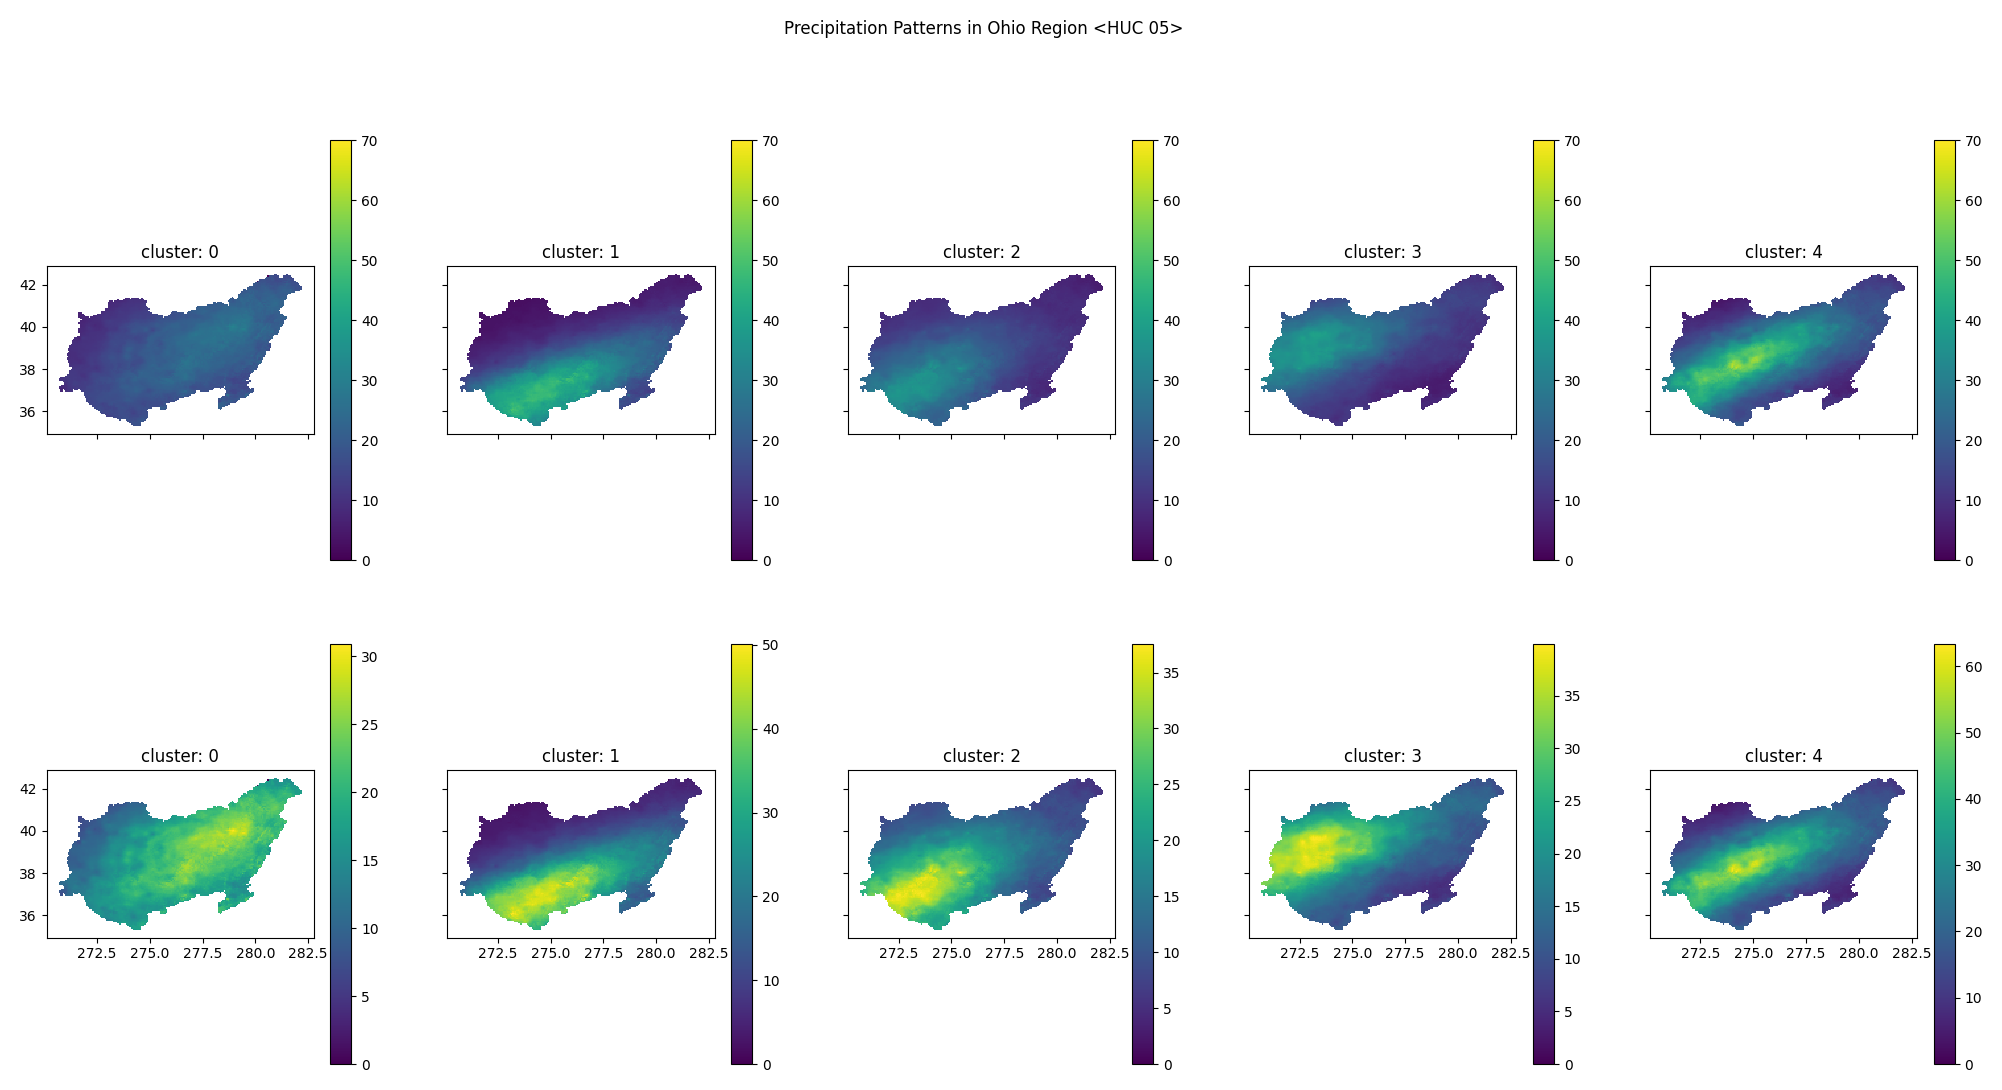
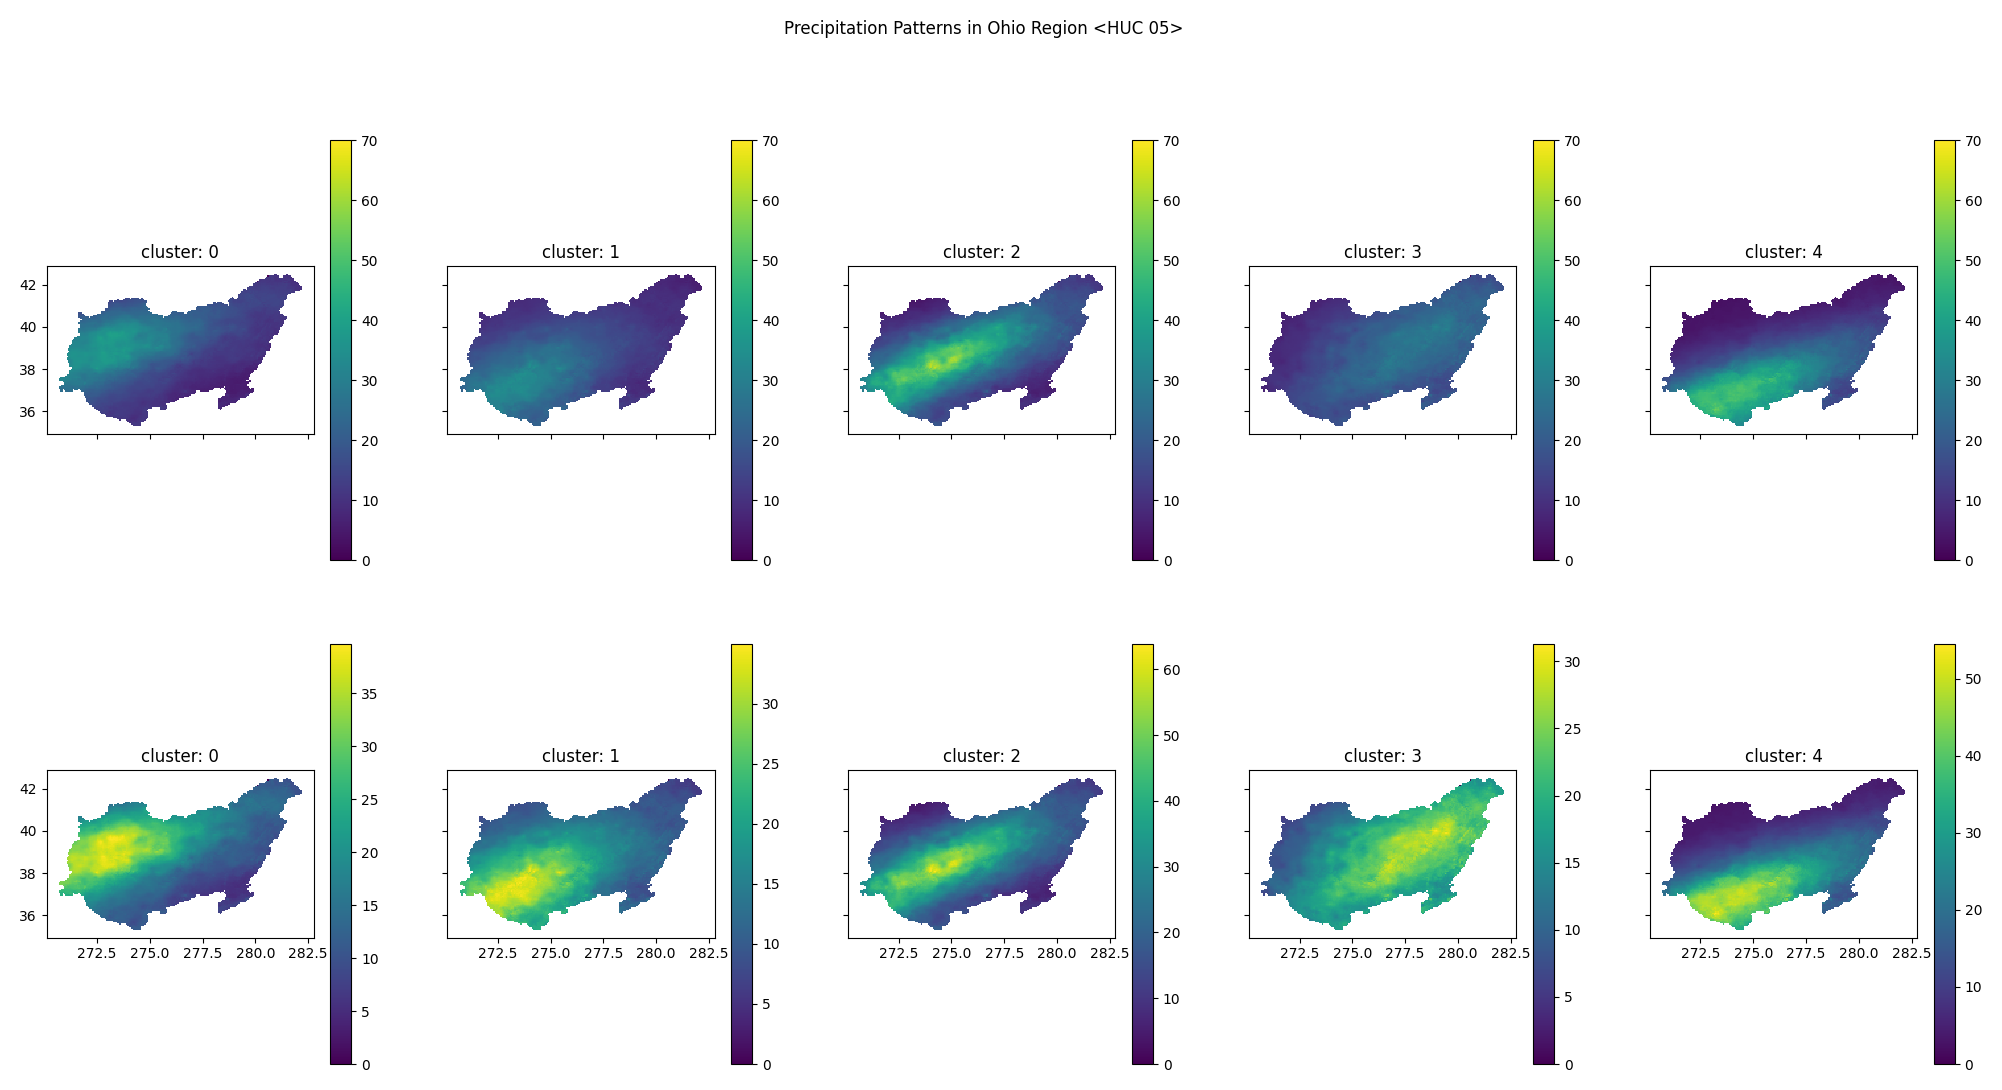
Use same projection system's area for weights calculation
Previous method had weights significantly different from 1.0
Also changed some of the reporting functions, and little more details
in the readme

diff --git a/src/huc.py b/src/huc.py
@@ -208,8 +208,8 @@ class HUC:
         year_julian = [(d.year, dates[0].timetuple().tm_yday) for d in dates]
         bbox = self.buffered_bbox()
 
-        def get_df(yr_jul):
-            netCDF = xarray.open_dataset(LivnehData.input_file(yr_jul[0]))
+        def get_df(yr, jul):
+            netCDF = xarray.open_dataset(LivnehData.input_file(yr))
             lats = list(
                 filter(
                     lambda il: il[1] > bbox[1] and il[1] < bbox[3],
@@ -225,12 +225,12 @@ class HUC:
             lats_ind = [i for i, l in lats]
             lons_ind = [i for i, l in lons]
             grid_day = netCDF.prec.isel(
-                lon=lons_ind, lat=lats_ind, time=yr_jul[1] - 1
+                lon=lons_ind, lat=lats_ind, time=jul - 1
             ).fillna(0)
             grid_day["ids"] = self.weights.ids
             return grid_day.to_dataframe()
 
-        return pd.concat(get_df(yj) for yj in year_julian)
+        return pd.concat(get_df(y, j) for y, j in year_julian)
 
     def process_annual_timeseries(self, year: int) -> pd.DataFrame:
         """process the annual timeseries for a year and save it
@@ -251,6 +251,7 @@ class HUC:
         weighted.name = "prec"
         df = weighted.to_dataframe()
         df.to_csv(self.data_path(f"prec.{year}.csv"))
+        print(":", self.data_path(f"prec.{year}.csv"))
         return df
 
     def load_weights(self, /, calculate: bool = False):
@@ -306,12 +307,12 @@ class HUC:
         # can be further sped up if we simplify the mask layer
         clipped = gpd.clip(geom_unclip, mask,
                            keep_geom_type=False).to_crs(HUC.AREA_CRS)
-        area = clipped.geometry.map(lambda g: g.area / 1_000_000)  # sqkm
+        area: pd.Series = clipped.geometry.map(lambda g: g.area / 1_000_000)
         self._set_and_save_weights(
             area, template=netCDF.prec.isel(time=0).drop_vars("time")
         )
 
-    def _set_and_save_weights(self, area, /, template):
+    def _set_and_save_weights(self, area: pd.Series, /, template):
         areas = xarray.zeros_like(template)
         ids = xarray.zeros_like(template, dtype=int)
         i = 1
@@ -319,12 +320,17 @@ class HUC:
             areas[(lat_ind, lon_ind)] = a
             ids[(lat_ind, lon_ind)] = i
             i += 1
+        print(f"Number of Grid Cells in Basin: {i-1}")
         weights = xarray.Dataset()
         weights["ids"] = ids
-        weights["areas"] = areas
-        weights["weights"] = areas / self.areasqkm
+        total_area = self.geometry_as_geodataframe().to_crs(
+                HUC.AREA_CRS).loc[0, "geometry"].area / 1_000_000
+        weights["weights"] = areas / total_area
+        print(f"Sum of weights: {float(weights.weights.sum()): .3f}")
         self.weights = weights.where(weights.ids > 0, drop=True)
         self.weights.to_netcdf(self.data_path(HUC.IDS_AND_WEIGHTS_FILENAME))
         self.weights.ids.to_dataframe().dropna().to_csv(
             self.data_path("ids.csv")
         )
+        print(":", self.data_path(HUC.IDS_AND_WEIGHTS_FILENAME))
+        print(":", self.data_path("ids.csv"))

diff --git a/src/precip.py b/src/precip.py
@@ -16,6 +16,7 @@ def calculate_ams_series(huc: HUC, years: List[int], ndays: int) -> pd.DataFrame
     )
     ams_series.loc[:, "duration"] = ndays
     ams_series.to_csv(huc.data_path(f"ams_{ndays}dy_series.csv"), index=None)
+    print(":", huc.data_path(f"ams_{ndays}dy_series.csv"))
     return ams_series
 
 
@@ -38,6 +39,7 @@ def calculate_pds_series(
     )
     pds_series.loc[:, "duration"] = ndays
     pds_series.to_csv(huc.data_path(f"pds_{ndays}dy_series.csv"))
+    print(":", huc.data_path(f"pds_{ndays}dy_series.csv"))
     return pds_series
 
 
@@ -72,6 +74,7 @@ def load_pds_grids(
         pds = load_pds_series(huc, years, ndays, threshold)
         grids = calculate_series_grids(huc, pds)
         grids.to_csv(huc.data_path(f"pds_{ndays}dy_grids.csv"))
+        print(":", huc.data_path(f"pds_{ndays}dy_grids.csv"))
         return grids
 
 
@@ -84,4 +87,5 @@ def load_ams_grids(huc: HUC, years: List[int], ndays: int) -> pd.DataFrame:
         ams = load_ams_series(huc, years, ndays)
         grids = calculate_series_grids(huc, ams)
         grids.to_csv(huc.data_path(f"ams_{ndays}dy_grids.csv"))
+        print(":", huc.data_path(f"ams_{ndays}dy_grids.csv"))
         return grids

diff --git a/src/locus.py b/src/locus.py
@@ -117,7 +117,7 @@ def plot_clusters(huc: HUC, args):
         axs[1, i].set_title(f"cluster: {i}")
     plt.suptitle(f"Precipitation Patterns in {huc}")
     plt.savefig(huc.image_path(f"{series}_{ndays}dy.png"))
-    print(huc.image_path(f"{series}_{ndays}dy.png"))
+    print(":", huc.image_path(f"{series}_{ndays}dy.png"))
 
 
 def cli_parser():
@@ -208,3 +208,4 @@ if __name__ == "__main__":
         locals()[func_name](huc, args)
         dur = time.time() - t1
         print(f"    Time taken: {dur: .3f} seconds ({dur / 60: .2} minutes)")
+        print(flush=True)

diff --git a/README.md b/README.md
@@ -108,7 +108,10 @@ Files: `{ams,pds}_Ndy.png` where N is the `num_days` (duration of event consider
 Plot of the clusters made from the events data for the AMS list or PDS list. The images show clusters with individual scale on bottom, and global scale on top for comparision.
 
 ## Run Times
-This is the runtime on Trinity (HUCode: 1203) on my laptop (CPU: AMD Ryzen 7 6800U with Radeon Graphics (16) @ 2.700GHz).
+This is the runtime on Trinity (HUCode: 1203) on my laptop
+- CPU: AMD Ryzen 7 6800U with Radeon Graphics (16) @ 2.700GHz,
+- Storage: PCIe Gen 4 NVMe SSD Up to Seq Read: 4000MB/s, Write: 2000MB/s,
+- RAM:  32 GB Dual Channel LPDDR5 up to 5500 MHz
 
 On the first run, where it has to calculate everything:
 
@@ -167,7 +170,6 @@ For Ohio Region <HUC 05>
 
 Seems like the extraction part is similar for all the basins, but the other ones vary by size. But it's reasonable time if you want to process a lot of basins.
 
-
 # Tips and tricks
 ## Running in parallel
 The original plan was to run everything without multiprocessing in the module itself, so multiple basins could be processed in parallel, but there seems to be some problem with the reading of netCDF from xarray or something that is giving some troubles. will have to look at it.
@@ -186,4 +188,20 @@ The output of the command can be piped, only the reporting texts from the main f
 If you need to print any debugging information that's not supposed to goto the report, print it in the `stderr`.
 
 # Note
+
+## Livneh Data Range
+The Livneh Data Range is approximately from lat 25 to 53, and lon -125 to -67, which means it doesn't cover the following regions:
+- Alaska Region <HUC 19>
+  (-179.230, 51.157, 179.857, 71.440)
+- Hawaii Region <HUC 20>
+  (-178.431, 18.860, -154.753, 28.507)
+- Caribbean Region <HUC 21>
+  (-68.004, 17.624, -64.513, 18.567)
+- South Pacific Region <HUC 22>
+  (-176.674, -14.610, 166.711, 20.604)
+
+## Reporting Times
 The time reported can include other steps than the one you asked it to do, if that is needed. For example, if you asked for extracting the timeseries, then it'll calculate the weights if there is no weights, or if you ask for `ams/pds` it'll extract the timeseries.
+
+## Weird behaviours
+HUC 09 takes a really long time (2.1 minutes in my laptop), I don't know why. Could be due to geometry? Need to check it out. Same with Great Lakes Region.
